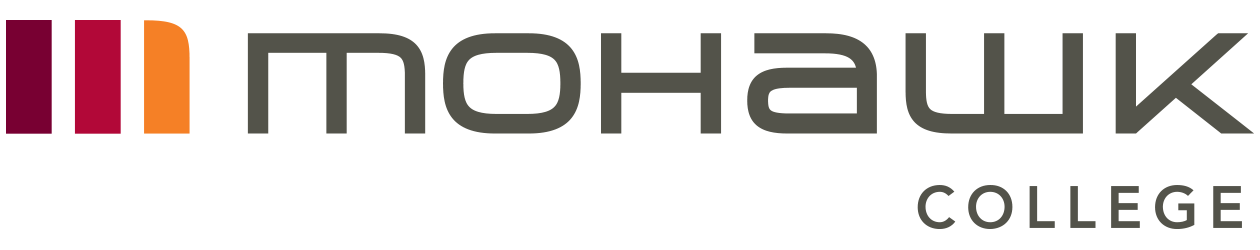
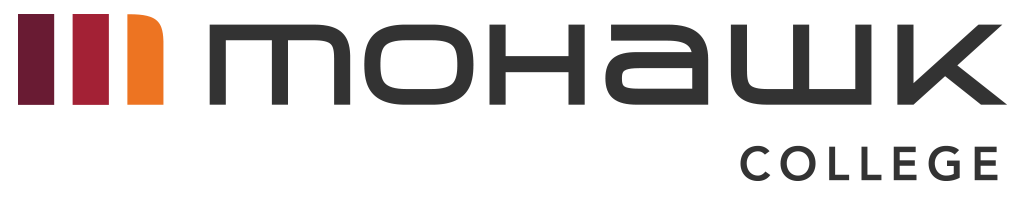
Revamp portfolio UI and animations
Replaced the rotating shadow animation with a new illuminateCorners keyframes effect in globals.css. Updated page.js to improve layout, typography, and section organization, including merged job titles, enhanced headings, added section dividers, and improved shadow effects. Updated mohawk.png image asset.

Changed region(s): [[0.0, 0.0545, 1.0, 0.5455], [0.7188, 0.6545, 1.0, 0.9273]]

diff --git a/my-portfolio/src/app/page.js b/my-portfolio/src/app/page.js
@@ -15,18 +15,17 @@ export default function Home() {
               alt="Matheos Amanuel"
               width={270}
               height={270}
-              className="rounded-full border-2 bg-clip-border border-gray-700/50 shadow-xl shadow-black/50 hover:shadow-black/70 transition-shadow duration-500 ease-in-out"
+              className="rounded-full border-2 bg-clip-border border-gray-700/50 shadow-xl shadow-black/100 hover:shadow-black/150 transition-shadow duration-500 ease-in-out"
             />
             <h1 className="text-5xl font-bold text-center bg-gradient-to-r">Matheos Amanuel</h1>
-            <h2 className="text-2xl text-white-500 text-center">Software Developer</h2>
-            <h3 className="text-xl text-white-500 text-center">IT Support Specialist</h3>
+            <h2 className="text-2xl text-white-500 text-center">Software Developer & IT Support Specialist</h2>
           </div>
         </div>
       </header>
 
       <main className="col-span-full flex flex-col items-center gap-4 mt-20 mb-10 row-start-2">
         <div className="flex flex-col items-center gap-4 py-4 md:py-4 px-8 md:px-16 bg-gray-800 rounded-lg">
-          <h2 className="text-2xl font-bold text-center">About Me</h2>
+          <h2 className="text-3xl font-bold text-center">About Me</h2>
           <p className="text-lg text-white-500 text-center">
             Junior Software Developer & IT Support Specialist with hands-on experience developing web and desktop/mobile
             applications, alongside a proven track record of providing enterprise-level IT support across multiple locations via
@@ -38,16 +37,18 @@ export default function Home() {
         </div>
 
 
-
+        {/* Education Completion */}
         <div className="flex flex-col items-center gap-4 py-4 mt-5 md:py-8 px-8 md:px-16 bg-gray-800 rounded-lg">
-          <h1 className="text-2xl font-bold text-center">Education Completion</h1>
-          <Image
+          <h1 className="text-3xl font-bold text-center">Education Completion</h1>
+          <div className="flex flex-col items-center gap-4 border-t-4 border-b-4 border-white-500 pb-5">
+            <Image
               src="/mohawk.png"
               alt="Matheos Amanuel"
               width={200}
               height={50}
+              className="pt-5"
             />
-          <div className="flex flex-row items-center gap-4">
+            <div className="flex flex-row items-center gap-4">
             {/*Icons by Freepik */}
             <Image
               src="/diploma.png"
@@ -56,7 +57,7 @@ export default function Home() {
               height={50}
               className="bg-clip-border shadow-xl shadow-gray-500/40 hover:shadow-white/70 transition-shadow duration-500 ease-in-out"
             />
-            <h3 className="text-xl text-white-500 text-center">Computer Systems Technology - Software Development Advanced Diploma</h3>
+            <h3 className="text-2xl text-white-500 text-center">Computer Systems Technology - Software Development Advanced Diploma</h3>
           </div>
           <div className="flex flex-row items-center gap-4">
             {/*Icons by Freepik */}
@@ -67,13 +68,15 @@ export default function Home() {
               height={50}
               className="bg-clip-border shadow-xl shadow-gray-500/50 hover:shadow-white/60 transition-shadow duration-500 ease-in-out"
             />
-            <h3 className="text-xl text-white-500 text-center">Computer Systems Technician - Software Support Diploma</h3>
+            <h3 className="text-2xl text-white-500 text-center">Computer Systems Technician - Software Support Diploma</h3>
+          </div>
           </div>
         </div>
 
+        {/* Programming Languages */}
         <div className="flex flex-col flex-wrap items-center gap-4 py-4 mt-5 md:py-8 px-8 md:px-16 bg-gray-800 rounded-lg">
-          <h1 className="text-2xl font-bold text-center">Programming Languages</h1>
-          <div className="flex flex-row flex-wrap items-center justify-center gap-4 ">
+          <h1 className="text-3xl font-bold text-center">Programming Languages</h1>
+          <div className="flex flex-row flex-wrap items-center justify-center gap-4 border-t-4 border-b-4 border-white-500 pb-5">
             <Image
               src="/python.png"
               alt="Python logo"
@@ -140,6 +143,7 @@ export default function Home() {
           </div>
         </div>
 
+        {/* Projects */}
         <div className="flex flex-col items-center gap-4 py-4 mt-5 md:py-8 px-8 md:px-16 bg-gray-800 rounded-lg">
           <h1 className="text-3xl font-bold text-center">Projects</h1>
           <div className="flex flex-col items-center gap-4 border-t-4 border-b-2 border-white-500 ">
@@ -280,6 +284,8 @@ export default function Home() {
             <p className="text-lg text-white-500 text-center pb-5">Developed and designed a full-stack dynamic web application that enables users to locate employees based on selected locations. The site allows regular users to select a location and search for an employee by name. If a match is found, the system displays the employee’s information along with a map of the corresponding area or floor. An admin login feature allows site administrators to add, edit, and remove employee profiles, which are stored in a SQL database.</p>
           </div>
         </div>
+
+        {/* Extracurricular */}
         <div className="flex flex-col items-center gap-4 py-4 mt-5 md:py-8 px-8 md:px-16 bg-gray-800 rounded-lg">
           <h1 className="text-3xl font-bold text-center">Extracurricular</h1>
           <div className="flex flex-col items-center gap-4 border-t-4 border-b-2 border-white-500 ">
@@ -315,6 +321,8 @@ export default function Home() {
                   className="rounded bg-clip-border"
                 />
             </div>
+            {/* Create Description */}
+            <h2 className="text-xl text-white-500 text-center pb-5 font-bold">About Project</h2>
             <p className="text-lg text-white-500 text-center pb-5"></p>
           </div>
           <div className="flex flex-col items-center gap-4  ">
@@ -350,6 +358,7 @@ export default function Home() {
                   className="rounded bg-clip-border"
                 />
             </div>
+            {/* Create Description */}
             <h2 className="text-xl text-white-500 text-center pb-5 font-bold">About Project</h2>
             <p className="text-lg text-white-500 text-center pb-5"></p>
           </div>
@@ -386,6 +395,8 @@ export default function Home() {
                   className="rounded bg-clip-border"
                 />
             </div>
+            {/* Create Description */}
+            <h2 className="text-xl text-white-500 text-center pb-5 font-bold">About Project</h2>
             <p className="text-lg text-white-500 text-center pb-5"></p>
           </div>
         </div>

diff --git a/my-portfolio/src/app/globals.css b/my-portfolio/src/app/globals.css
@@ -21,7 +21,7 @@ body {
 }
 
 /* Define the keyframes for rotating the shadow */
-@keyframes rotateShadow {
+/* @keyframes rotateShadow {
   0% {
     box-shadow: 0 0 20px 5px rgba(255, 255, 255, 0.7);
   }
@@ -37,12 +37,59 @@ body {
   100% {
     box-shadow: 0 0 20px 5px rgba(255, 255, 255, 0.7);
   }
+} */
+
+@keyframes illuminateCorners {
+  /* Top-left */
+  0% {
+    box-shadow: -10px -10px 10px 2px rgba(255,255,255,0);
+  }
+  10% {
+    box-shadow: -10px -10px 30px 15px rgb(167, 167, 167); /* Pulse in */
+  }
+  20% {
+    box-shadow: -10px -10px 10px 2px rgba(255,255,255,0); /* Pulse out */
+  }
+  /* Top-right */
+  25% {
+    box-shadow: 10px -10px 10px 2px rgba(255,255,255,0);
+  }
+  35% {
+    box-shadow: 10px -10px 30px 15px rgba(167, 167, 167); /* Pulse in */
+  }
+  45% {
+    box-shadow: 10px -10px 10px 2px rgba(255,255,255,0); /* Pulse out */
+  }
+  /* Bottom-right */
+  50% {
+    box-shadow: 10px 10px 10px 2px rgba(255,255,255,0);
+  }
+  60% {
+    box-shadow: 10px 10px 30px 15px rgba(167, 167, 167); /* Pulse in */
+  }
+  70% {
+    box-shadow: 10px 10px 10px 2px rgba(255,255,255,0); /* Pulse out */
+  }
+  /* Bottom-left */
+  75% {
+    box-shadow: -10px 10px 10px 2px rgba(255,255,255,0);
+  }
+  85% {
+    box-shadow: -10px 10px 30px 15px rgba(167, 167, 167); /* Pulse in */
+  }
+  95% {
+    box-shadow: -10px 10px 10px 2px rgba(255,255,255,0); /* Pulse out */
+  }
+  100% {
+    box-shadow: -10px -10px 10px 2px rgba(255,255,255,0); /* Back to Top-left */
+  }
 }
 
 /* Apply the animation to the container */
 .rotate-shadow-animation {
   position: relative;
-  animation: rotateShadow 3s infinite linear;
-  box-shadow: 0 0 50px 50px rgba(0, 0, 255, 0.7), 0 0 20px 5px rgba(255, 255, 255, 0.7);
+  animation: illuminateCorners 8.5s infinite linear;
+  /* animation: rotateShadow 3s infinite linear; */
+  /* box-shadow: 0 0 50px 50px rgba(0, 0, 255, 0.7), 0 0 20px 5px rgba(255, 255, 255, 0.7); */
 }
 
